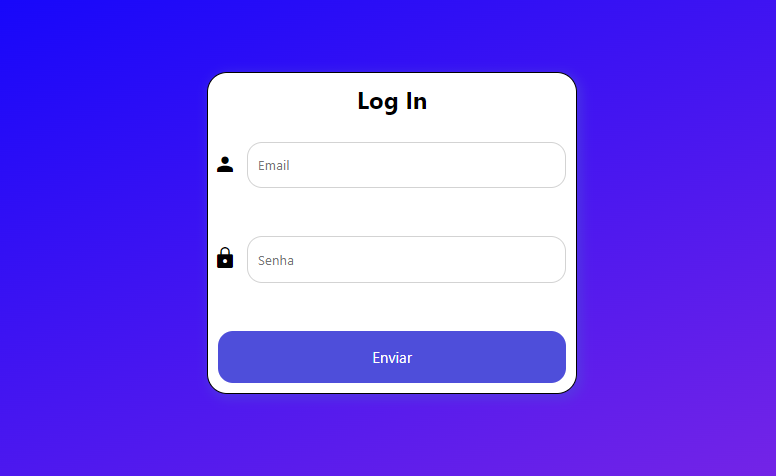
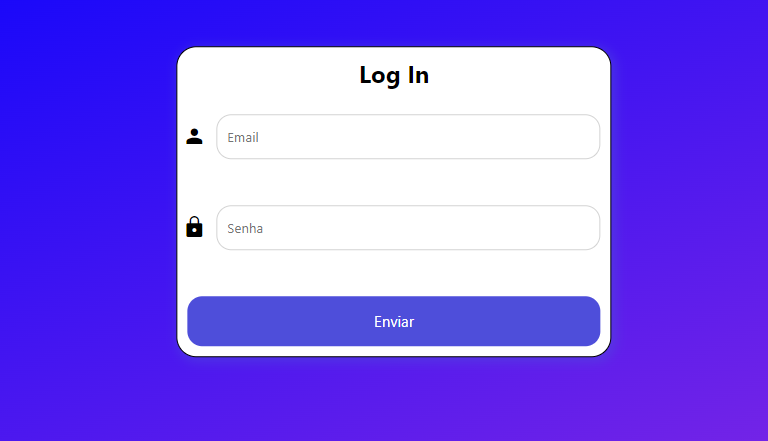
Mudanças da respondividade

Changed region(s): [[0.2188, 0.0884, 0.8125, 0.8254]]

diff --git a/loginpage3/style.css b/loginpage3/style.css
@@ -7,6 +7,7 @@ body {
     width: 100vh;
     height: 100vh;
     background-image: linear-gradient(to bottom right,blue, blueviolet);
+    background-size: cover;
 }
 section#form {
     border: 1px solid black;
@@ -21,14 +22,14 @@ section#form {
 }
 @media (orientation: portrait) {
     section#form {
-    height: 20rem;
-    width: 13rem
+    height: 70vh;
+    width: 40vh;
     }
 }
 @media (orientation: landscape) {
     section#form {
-    height: 20rem;
-    width: 23rem
+    height: 50vh;
+    width: 70vh;
     }
 }
 h2 {
